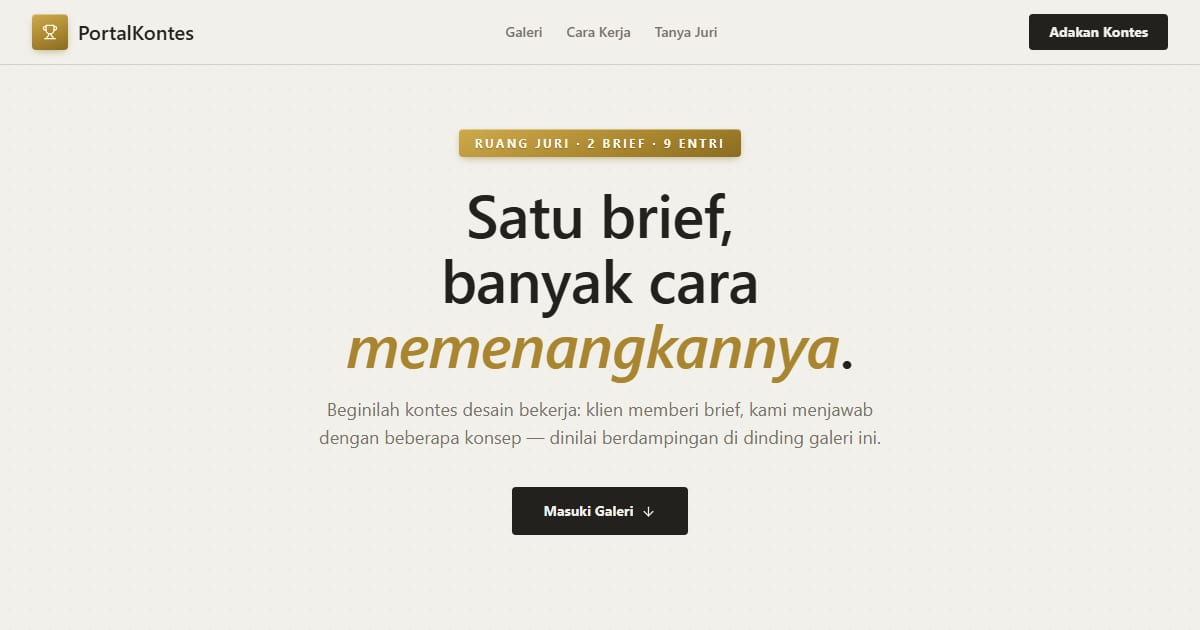
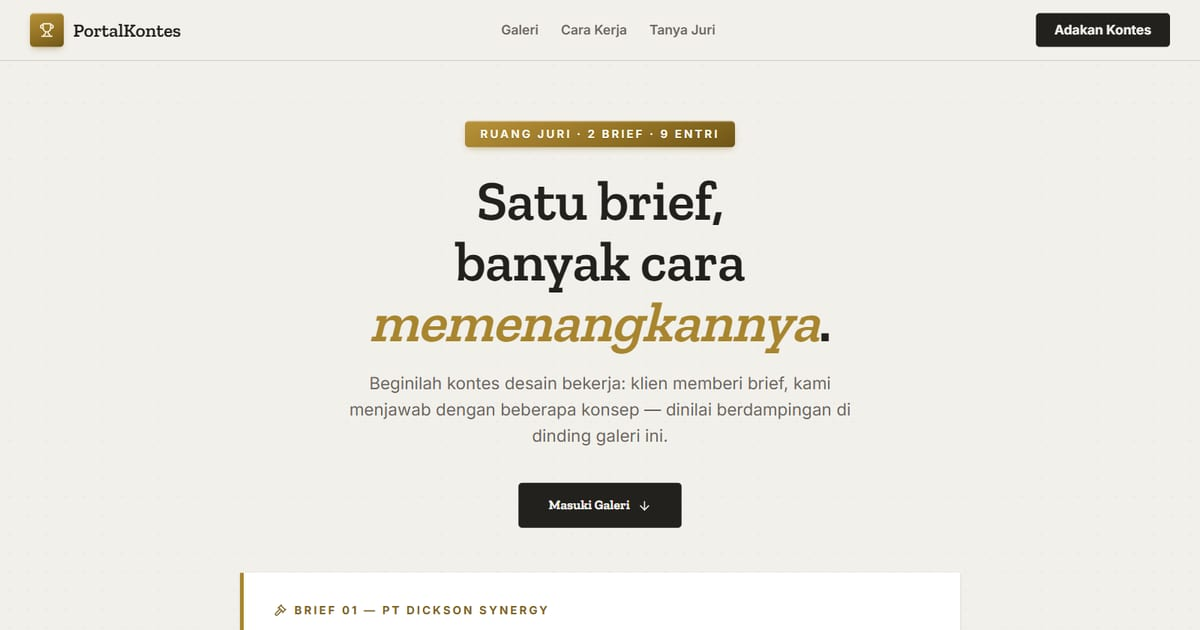
Portal kontes: font judul benar, 404 galeri, jadwal tanpa janji angka
- Variabel font di <body> membuat @theme --font-display kosong sehingga
  judul jatuh ke font sistem -> variabel di <html> (kini Zilla Slab)
- FAQ "5–10 hari kerja" & "pemolesan 2–3 hari" tanpa sumber -> jadwal
  dikirim sebelum mulai
- Halaman 404 bergaya ruang galeri dengan plakat kuningan
- Tautan ke PintuWeb memakai domain utama www.pintuweb.com (apex dialihkan 308)

diff --git a/app/page.js b/app/page.js
@@ -10,7 +10,7 @@ const WA = 'https://wa.me/6281339908765?text=Halo%2C%20saya%20ingin%20mengadakan
 const TANYA = [
   { q: 'Apa untungnya kontes dibanding pesan satu desain?', a: 'Kamu melihat beberapa interpretasi nyata atas brief yang sama — bukan satu taruhan. Konsep yang menang adalah yang benar-benar paling pas di matamu, bukan sekadar yang pertama jadi.' },
   { q: 'Berapa konsep yang saya terima?', a: 'Umumnya 3–5 konsep website utuh yang bisa diklik dan dijelajahi, bukan sekadar gambar mockup. Jumlah pastinya menyesuaikan skala brief dan kesepakatan di awal.' },
-  { q: 'Berapa lama prosesnya?', a: 'Brief singkat berjalan sekitar 5–10 hari kerja dari brief final sampai semua entri siap dinilai. Setelah kamu memilih juara, pemolesan final memakan 2–3 hari.' },
+  { q: 'Berapa lama prosesnya?', a: 'Tergantung panjang brief dan jumlah konsep yang kamu minta. Sebelum mulai, kami kirim jadwalnya: kapan semua entri siap dinilai, dan berapa lama pemolesan setelah kamu memilih juara.' },
   { q: 'Bagaimana jika tidak ada konsep yang saya suka?', a: 'Feedback-mu jadi arah revisi: konsep terdekat kami rombak sesuai catatanmu. Prinsip kami sederhana — kontes selesai ketika ada karya yang memenangkan hatimu.' },
   { q: 'Konsep yang kalah jadi milik siapa?', a: 'Konsep juara beserta source code menjadi milikmu penuh. Konsep lain tetap arsip galeri kami — bisa kamu tebus terpisah jika ternyata ingin memakainya juga.' },
 ];
@@ -195,7 +195,7 @@ export default function PortalKontes() {
             <p className="text-xs font-bold uppercase tracking-[0.2em] text-kuningan">Hubungi</p>
             <ul className="mt-3 space-y-2">
               <li><a href={WA} target="_blank" rel="noopener noreferrer" className="transition hover:text-galeri">WhatsApp +62 813 3990 8765</a></li>
-              <li><a href="https://pintuweb.com" target="_blank" rel="noopener noreferrer" className="transition hover:text-galeri">pintuweb.com</a></li>
+              <li><a href="https://www.pintuweb.com" target="_blank" rel="noopener noreferrer" className="transition hover:text-galeri">pintuweb.com</a></li>
             </ul>
           </div>
         </div>

diff --git a/app/layout.js b/app/layout.js
@@ -4,7 +4,7 @@ import { Zilla_Slab, Inter } from 'next/font/google';
 const zilla = Zilla_Slab({ subsets: ['latin'], variable: '--font-zilla', weight: ['500', '600', '700'] });
 const inter = Inter({ subsets: ['latin'], variable: '--font-inter' });
 
-const __jsonld = {"@context":"https://schema.org","@type":"CollectionPage","name":"PortalKontes","description":"Galeri entri kontes desain web","url":"https://portal-kontes.vercel.app","isPartOf":{"@type":"WebSite","name":"PintuWeb","url":"https://pintuweb.com"}};
+const __jsonld = {"@context":"https://schema.org","@type":"CollectionPage","name":"PortalKontes","description":"Galeri entri kontes desain web","url":"https://portal-kontes.vercel.app","isPartOf":{"@type":"WebSite","name":"PintuWeb","url":"https://www.pintuweb.com"}};
 
 export const metadata = {
   metadataBase: new URL("https://portal-kontes.vercel.app"),
@@ -40,8 +40,8 @@ export const metadata = {
 
 export default function RootLayout({ children }) {
   return (
-    <html lang="id">
-      <body className={`${zilla.variable} ${inter.variable} antialiased`}>
+    <html lang="id" className={`${zilla.variable} ${inter.variable}`}>
+      <body className="antialiased">
         <main>{children}</main>
       <script type="application/ld+json" dangerouslySetInnerHTML={{ __html: JSON.stringify(__jsonld) }} />
         </body>

diff --git a/app/not-found.js b/app/not-found.js
@@ -1,0 +1,14 @@
+import Link from 'next/link';
+
+export const metadata = { title: 'Halaman tidak ditemukan', robots: { index: false } };
+
+export default function NotFound() {
+  return (
+    <main className="wall flex min-h-screen flex-col items-center justify-center bg-galeri px-6 text-center text-arang">
+      <p className="plakat px-4 py-1.5 text-xs uppercase tracking-[0.3em]">Ruang 404</p>
+      <h1 className="mt-4 font-display text-4xl font-bold sm:text-5xl">Karya ini tidak ada di galeri</h1>
+      <p className="mt-4 max-w-md text-mutedk">Halaman yang Anda cari sudah dipindah atau memang tidak pernah dipajang.</p>
+      <Link href="/" className="mt-8 border border-arang bg-arang px-6 py-3 text-sm font-semibold text-galeri transition hover:bg-kuningan-ink">Kembali ke galeri juri</Link>
+    </main>
+  );
+}

diff --git a/README.md b/README.md
@@ -48,4 +48,4 @@ Buka http://localhost:3000. Untuk build produksi: `npm run build` lalu `npm star
 
 ---
 
-Dibuat oleh [PintuWeb](https://pintuweb.com), jasa pembuatan website.
+Dibuat oleh [PintuWeb](https://www.pintuweb.com), jasa pembuatan website.
